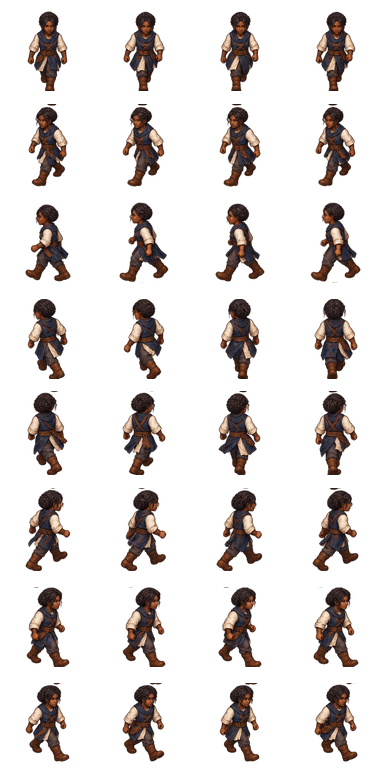
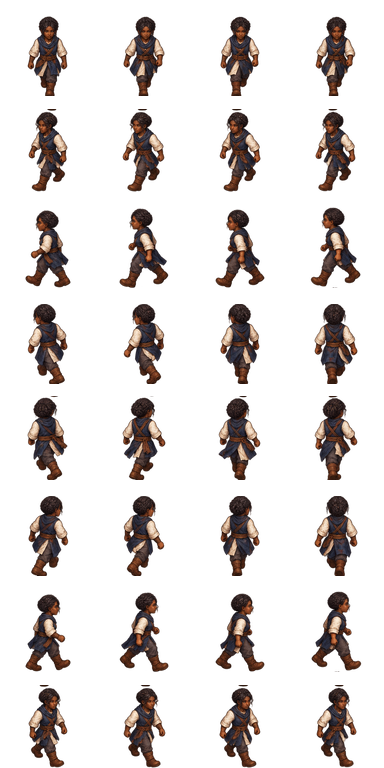
commit

diff --git a/ROUND67_CITY_POLISH_PASS.md b/ROUND67_CITY_POLISH_PASS.md
@@ -31,12 +31,13 @@ O Round 67 fecha a etapa de acabamento da Cidade de Aether isométrica com foco 
 - todos os sprites isométricos usam origem `(0.5, 1)`, fixando projeção, colisão e ordenação na linha dos pés;
 - o controle aplica a transformação isométrica `2:1` do arquivo `phaser_isometric_collision.ts`, com normalização diagonal e movimento pelos dois eixos do losango;
 - o corpo Arcade do herói mede `32×16 px` e fica centralizado na base; as máscaras alfa continuam sendo a autoridade final para preservar a exigência de que pixels transparentes nunca colidam;
-- o contato físico usa somente pixels opacos da faixa inferior de pernas e pés; cabeça, cabelos e armas continuam sendo renderizados/ocultados, mas não criam colisão antecipada nem prendem o herói junto aos guardas dos portões;
+- o contato físico usa somente pixels opacos dos últimos `14 px` de pernas e pés; cabeça, cabelos e armas continuam sendo renderizados/ocultados, mas não criam colisão antecipada;
+- quando uma posição antiga começa tocando uma máscara, movimentos que reduzem ou mantêm a quantidade de pixels em contato são aceitos; o herói consegue escapar e deslizar junto ao obstáculo sem atravessá-lo;
 - muralhas, pilares dos portões, edifícios, fonte, Marco de Senda, árvore e NPCs fixos usam máscaras extraídas do canal alfa das próprias texturas;
 - pixels transparentes dos canvases não bloqueiam o movimento; as máscaras são pré-calculadas uma vez e reutilizadas durante a cena;
 - edifícios usam a faixa opaca da base e o corpo completo somente na aproximação frontal;
-- atrás dos objetos, o herói continua livre para ser ocultado e exibir apenas o contorno dourado;
-- muralhas, portões, edifícios e demais elementos altos isométricos são registrados no `IsoOcclusionManager`; a cena chama `checkPlayerOcclusion(player)` a cada atualização e aplica fade suave quando existe sobreposição real e o herói está atrás;
+- atrás dos objetos, o sprite real do herói fica invisível e somente o contorno vazado dourado correspondente ao quadro atual permanece visível;
+- muralhas, portões, edifícios e demais elementos altos permanecem totalmente opacos; `IsoOcclusionManager` não altera mais o alpha do cenário;
 - fonte deixa de possuir a antiga elipse invisível à direita;
 - árvore bloqueia somente os pixels opacos da faixa do tronco;
 - Marco de Senda não cria o retângulo físico adicional na cidade e impede a entrada do corpo pela própria silhueta;
@@ -75,12 +76,13 @@ O Round 67 fecha a etapa de acabamento da Cidade de Aether isométrica com foco 
 - tela de novo jogo reconstruída com seis escolhas: aparência masculina e feminina para Guerreiro, Mago e Caçador;
 - o conjunto preserva diversidade visual sem exibir rótulos étnicos na seleção, mantendo câmera, escala, linha dos pés e linguagem 2,5D comuns aos NPCs;
 - cada protagonista possui 32 quadros reais: quatro poses de caminhada para Sul, Sudeste, Leste, Nordeste, Norte, Noroeste, Oeste e Sudoeste;
+- as 24 combinações normais usam a mesma linha de chão (`y=95`) e a sombra circular gerada pelo Phaser foi removida;
+- Leste, Sudeste e Nordeste são espelhos quadro a quadro de Oeste, Sudoeste e Noroeste, preservando tamanho, fase e sentido da caminhada;
 - o estado inicial usa somente roupas simples, sem arma e sem armadura visíveis;
 - Guerreiro aceita apenas espadas, Mago apenas cajados e Caçador apenas arcos; itens incompatíveis não podem ser equipados;
 - arma e armadura alteram imediatamente a folha usada pelo personagem, inclusive quando os dois itens estão equipados ao mesmo tempo; cada equipamento foi integrado à anatomia das 32 poses, com espada baixa, cajado ligado à pegada e arco acompanhado de aljava;
-- os estados `armadura`, `cajado` e `cajado + armadura` da maga feminina foram refeitos: cajado preso à mão, identidade feminina preservada e nenhuma área branca residual nas 32 células;
-- os estados `armadura` e `arco` do Caçador masculino também foram refeitos; o arco usa madeira marrom e corda discreta, sem bordas claras ou resíduos opacos;
-- os cinco estados revisados preservam exatamente a escala dos estados-base, com `82–84 px` opacos por célula e a mesma linha dos pés em todas as direções;
+- os estados `cajado` e `cajado + armadura` da maga feminina foram refeitos: cajado preso à mão, borda preta removida e identidade feminina preservada nas 32 células;
+- Maga feminina (`armadura`, `cajado` e `cajado + armadura`), Caçador masculino (`base`, `armadura` e `arco`), Guerreira com armadura e Guerreiro com espada foram normalizados novamente; halos, resíduos opacos e contornos grossos foram removidos sem alterar as 32 poses ou a linha dos pés;
 - o inventário sempre apresenta o estado visual atual no quadro frontal Sul, independentemente da direção em que o herói estava andando no mapa;
 - saves registram a aparência selecionada e migram saves antigos para a aparência masculina da classe já salva;
 - as 24 combinações visuais (`6 aparências × 4 estados`) possuem folhas normais e folhas vazadas de contorno dourado, totalizando 48 spritesheets compatíveis com a oclusão universal.
@@ -108,10 +110,10 @@ O Round 67 fecha a etapa de acabamento da Cidade de Aether isométrica com foco 
 ## Interface inferior
 
 - nova moldura 2,5D em aço azul-escuro e ouro envelhecido, com transparência real;
-- moldura exibida nos `960×154 px` originais em telas largas; em telas menores, todo o conjunto é reduzido uniformemente, sem deformar a arte ou os orbes;
+- moldura reconstruída em `1320×154 px`, ampliando apenas o painel central e preservando ornamentos e orbes no tamanho nativo; em telas menores, todo o conjunto é reduzido uniformemente;
 - orbes de HP e Mana são preenchidos pelo Phaser e diminuem proporcionalmente aos valores atuais;
-- oito espaços exatos no canal central: três habilidades de classe, ataque básico e quatro espaços reservados para expansão;
-- atalhos de poções e os comandos `I · Inventário`, `K · Skills`, `C · Controles` e `P · Menu` permanecem legíveis na própria barra;
+- quatorze espaços exatos: poções de HP e Mana, oito habilidades/ações e quatro comandos;
+- após as oito habilidades, `K` Skills, `I` Inventário, `C` Controles e `P` Menu possuem ícones próprios;
 - nível, ouro e experiência continuam visíveis sem ocupar a área do mapa.
 
 ## Validação

diff --git a/README.md b/README.md
@@ -2,11 +2,11 @@
 
 A Cidade de Aether preserva a conversão 2,5D e agora possui muralhas modulares cujos quatro cantos são formados pelo mesmo encontro natural dos módulos, sem imagens adicionais. O ateliê de Maelis ocupa o espaço entre a taverna e o Portão Leste na mesma linha dos demais estabelecimentos; Kael olha para dentro da cidade sem espelhamento. A casa azul foi recuada do encontro lateral e as ruas residenciais continuam livres. O gramado foi repintado e recebeu dezesseis tufos com animação sutil. Aldren continua voltado para a praça; Mira e o General Cassian Vhal ficam em lados opostos da fonte e possuem ações próprias; Tomas e Darian caminham em oito direções; e as nove chaminés visíveis têm fumaça animada. Elara começa devastada diante de sua botica abandonada, com o estado restaurado preservado para a futura missão.
 
-O herói usa a mesma escala corporal dos NPCs urbanos. As colisões da cidade são derivadas dos pixels opacos de muralhas, portões, edifícios, fonte, Marco de Senda, árvore e NPCs fixos, ignorando o padding transparente. O contato físico do herói consulta somente a faixa opaca de pernas e pés; cabeça, cabelo e equipamentos continuam na oclusão, mas não podem mais prendê-lo ao nascer ao lado de um guarda. O centro dos dois arcos permanece caminhável, enquanto os pilares não permitem saída. Tomas foi refeito sem fragmentos e os dois andarilhos foram normalizados para a escala comum.
+O herói usa a mesma escala corporal dos NPCs urbanos. As colisões da cidade são derivadas dos pixels opacos de muralhas, portões, edifícios, fonte, Marco de Senda, árvore e NPCs fixos, ignorando o padding transparente. O contato físico consulta apenas os últimos `14 px` opacos das pernas e dos pés. Se um save começar tocando uma máscara, o movimento que reduz ou mantém a interseção continua permitido, evitando travamentos e preservando o deslizamento junto às fachadas. O centro dos dois arcos permanece caminhável, enquanto os pilares não permitem saída. Tomas foi refeito sem fragmentos e os dois andarilhos foram normalizados para a escala comum.
 
-O novo jogo permite escolher seis protagonistas — aparência masculina e feminina para Guerreiro, Mago e Caçador — com diversidade visual sem rótulos étnicos no menu e caminhada real em oito direções. Todos começam com roupas simples, sem arma e sem armadura; espada, cajado, arco e proteção corporal aparecem somente depois de equipados e respeitam a classe escolhida. Armas e armaduras foram desenhadas junto às mãos e ao corpo em cada pose, sem camadas flutuantes. Os estados apontados de Maga, Caçador e Guerreiros foram reexportados com transparência real, sem halos grossos, preservando escala e linha dos pés. Cada uma das 24 combinações de aparência/equipamento possui também sua própria folha de contorno dourado para a oclusão.
+O novo jogo permite escolher seis protagonistas — aparência masculina e feminina para Guerreiro, Mago e Caçador — com diversidade visual sem rótulos étnicos no menu e caminhada real em oito direções. Todos começam com roupas simples, sem arma e sem armadura; espada, cajado, arco e proteção corporal aparecem somente depois de equipados e respeitam a classe escolhida. As 24 folhas visuais foram alinhadas na linha `y=95`; não existe mais a elipse de sombra que sugeria flutuação. As direções direita, sudeste e nordeste são espelhos quadro a quadro das respectivas direções esquerdas, mantendo tamanho, fase do passo e sentido corretos. Cada combinação possui uma folha vazada de contorno dourado: quando o herói passa atrás de um objeto, o corpo real fica oculto e somente esse contorno aparece, sem clarear muralhas ou estabelecimentos.
 
-O canvas agora acompanha a largura e a altura reais do navegador em escala `1:1`: a janela maior revela mais mapa, sem ampliar um quadro fixo nem reamostrar paredes, personagens ou textos. As pinturas usam antialiasing, os textos são gerados em alta resolução e a barra inferior conserva os `960×154 px` nativos, centralizada sem esticar. A câmera possui margem além da borda norte para manter o personagem em uma zona de leitura confortável, o inventário sempre mostra a aparência atual de frente e nome, função e comando dos NPCs foram reunidos numa única placa branca discreta sobre cada personagem.
+O canvas agora acompanha a largura e a altura reais do navegador em escala `1:1`: a janela maior revela mais mapa, sem ampliar um quadro fixo nem reamostrar paredes, personagens ou textos. As pinturas usam antialiasing, os textos são gerados em alta resolução e a barra inferior possui arte nativa de `1320×154 px`, centralizada e reduzida uniformemente somente quando a janela é mais estreita. Ela apresenta dois quadrados de consumíveis, oito espaços de habilidades e, à direita, quadrados ilustrados para `K`, `I`, `C` e `P`. A câmera possui margem além da borda norte, o inventário sempre mostra a aparência atual de frente e nome, função e comando dos NPCs permanecem numa única placa branca discreta sobre cada personagem.
 
 A Cidade de Aether adota `IsoSprite`/`IsoContainer` como fonte única de posição. Movimento altera `isoX`, `isoY` e `isoZ`, chama `updateIsoPosition()` e calcula a profundidade por `(isoX + isoY) × 100`, com origem dos sprites em `(0.5, 1)`. O controle aplica a transformação diagonal `2:1` do arquivo de colisão, o corpo Arcade fica restrito aos pés (`32×16`) e `IsoOcclusionManager` registra os elementos altos para transparência dinâmica. Consulte `ROUND67_CITY_POLISH_PASS.md` para o passe atual e `HISTORICO_E_REFERENCIAS_ATE_ROUND66.md` para todos os documentos anteriores.
 
